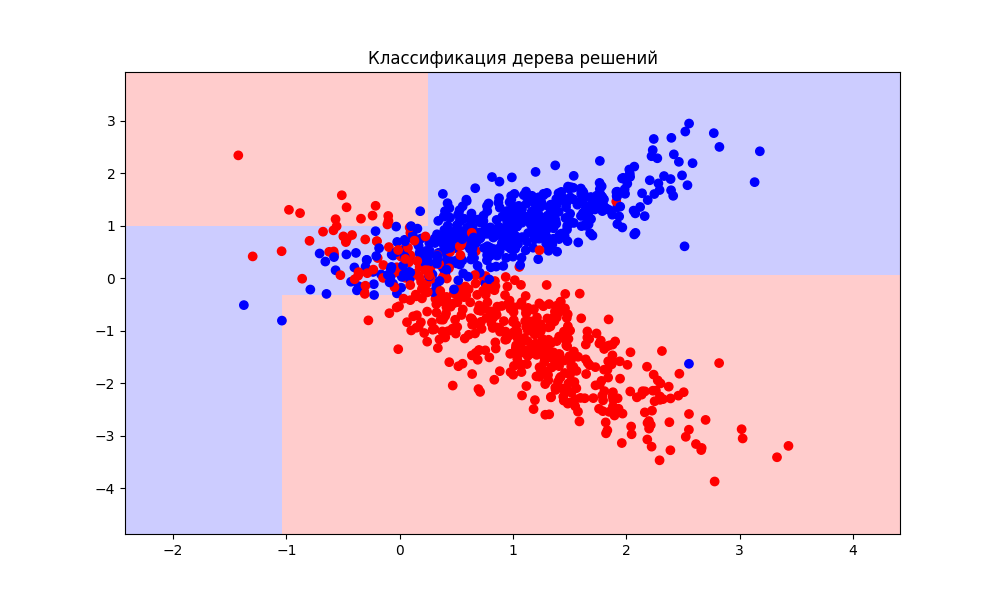
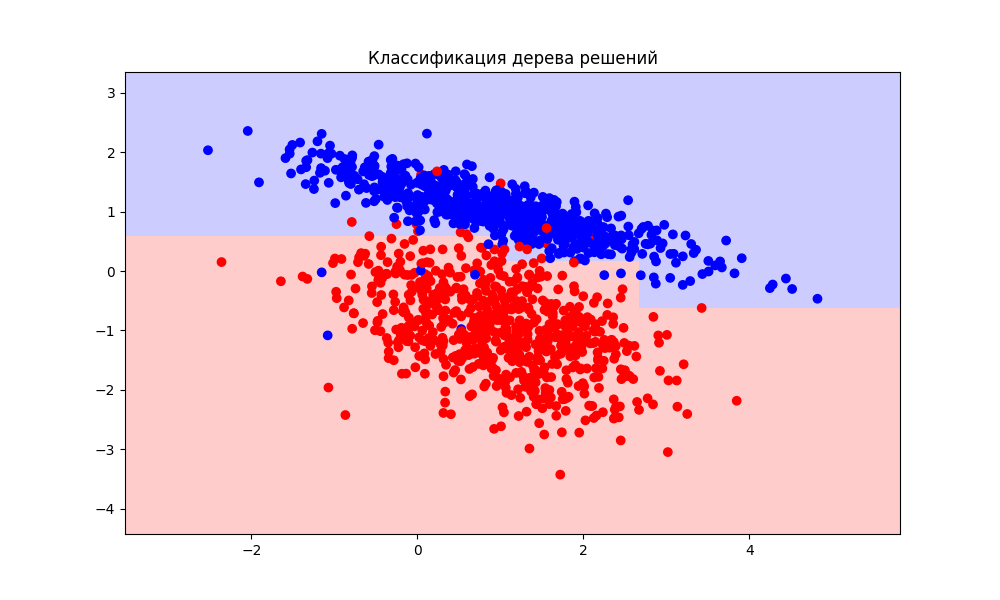
first commit

diff --git a/decision_three.py b/decision_three.py
@@ -6,16 +6,16 @@ import graphviz
 
 
 class Node:
-    def __init__(self, feature_idx=None, threshold=None, left=None, right=None, value=None):
+    def __init__(self, feature_index=None, threshold=None, left=None, right=None, value=None):
         """
 
-        :param feature_idx: - индекс признака, по которому разбивается вершина
+        :param feature_index: - индекс признака, по которому разбивается вершина
         :param threshold: - пороговое значение, по которому разбивается вершина
         :param left: - левое поддерево
         :param right: - правое поддерево
         :param value: - значение в листовой вершине
         """
-        self.feature_index = feature_idx
+        self.feature_index = feature_index
         self.threshold = threshold
         self.left = left
         self.right = right
@@ -207,7 +207,7 @@ class DecisionTree:
 
 def main():
 
-    X, y = make_classification(n_samples=1000, n_features=2, n_redundant=0, n_informative=2,
+    X, y = make_classification(n_samples=1400, n_features=2, n_redundant=0, n_informative=2,
                                random_state=1, n_clusters_per_class=1)
     my_three = DecisionTree(max_depth=3)
     my_three.fit(X, y)
